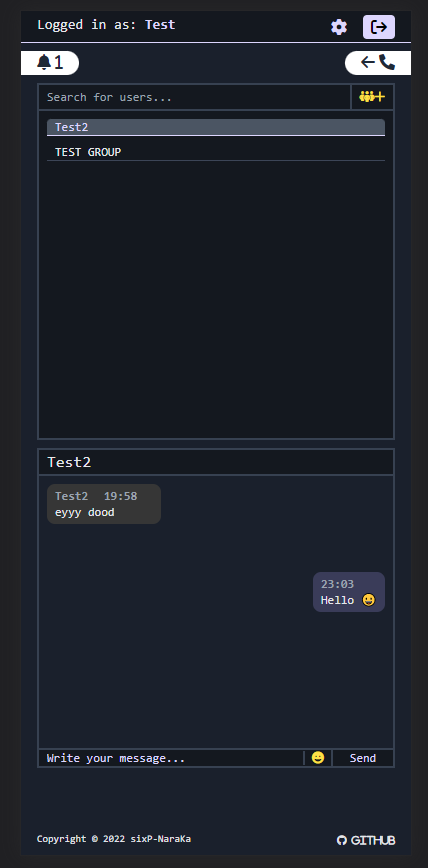
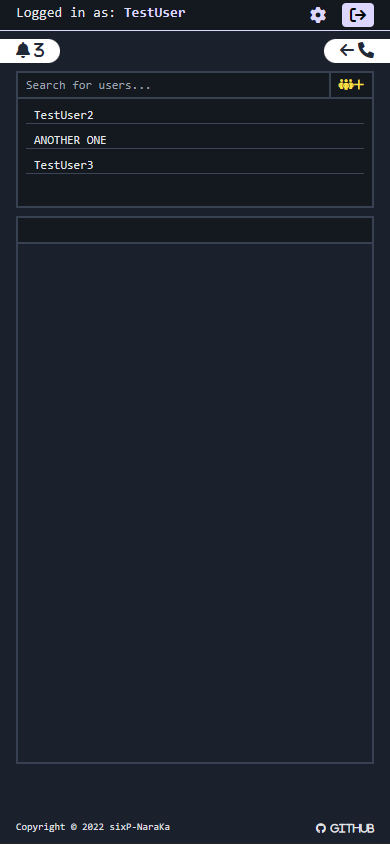
Embed YouTube Videos if URL is valid and user has (new) setting enabled to allow this embedding. Resize chat-tabs and chat window to give more space for the chat contents on lower screen sizes.

Changed region(s): [[0.0, 0.0, 1.0, 0.9242], [0.0308, 0.955, 0.4615, 0.9858], [0.7692, 0.955, 0.9538, 0.9858]]

diff --git a/frontend/src/app/settings-menu/settings-menu.component.html b/frontend/src/app/settings-menu/settings-menu.component.html
@@ -1,6 +1,7 @@
 <div class="settings-menu-blur z-50 absolute top-0 left-0 flex items-center h-screen w-screen"
     [class.hidden]="shouldShowMenu === false" [class.flex]="shouldShowMenu === true">
-    <div class="settings-menu-window relative items-center w-[50%] min-w-fit h-64 px-4 mx-auto border-2 border-gray-700">
+    <div
+        class="settings-menu-window relative items-center w-[50%] min-w-fit h-64 px-4 mx-auto border-2 border-gray-700">
         <button type="button" class="absolute top-0 right-0 p-2 fa-solid fa-xmark" (click)="closeMenu()"></button>
         <p class="pt-8"></p>
 
@@ -19,11 +20,17 @@
                 </label>
             </div>
             <hr class="my-4 border-violet-200 w-full">
-            <div class="flex flex-row space-x-2">
-                <p>Change chat window text font-size:</p>
-                <select formControlName="fontSize" class="text-black">
-                    <option *ngFor="let fontSize of availableFontSizes" value={{fontSize.value}}>{{fontSize.text}}</option>
-                </select>
+            <div class="flex flex-col items-start">
+                <label>Change chat window text font-size:
+                    <select formControlName="fontSize" class="text-black">
+                        <option *ngFor="let fontSize of availableFontSizes" value={{fontSize.value}}>
+                            {{fontSize.text}}
+                        </option>
+                    </select>
+                </label>
+                <label>Embed YouTube Videos:
+                    <input formControlName="embedYouTubeVideos" type="checkbox" />
+                </label>
             </div>
 
             <button type="submit" class="w-32 absolute bottom-0 mb-4 rounded bg-violet-200 text-black">Apply</button>

diff --git a/frontend/src/app/settings-menu/settings-menu.component.ts b/frontend/src/app/settings-menu/settings-menu.component.ts
@@ -27,7 +27,8 @@ export class SettingsMenuComponent implements OnInit {
 
     settingsMenuFormGroup: FormGroup = new FormGroup({
         filterRadio: new FormControl(this.userSettings?.filter, Validators.required),
-        fontSize: new FormControl(this.userSettings?.font_size, Validators.required)
+        fontSize: new FormControl(this.userSettings?.font_size, Validators.required),
+        embedYouTubeVideos: new FormControl(this.userSettings?.embed_yt_videos, Validators.required),
     });
 
     availableFontSizes = [
@@ -46,7 +47,8 @@ export class SettingsMenuComponent implements OnInit {
             // for now, as a workaround, simply overwrite the existing FormGroup to the correct one
             this.settingsMenuFormGroup = new FormGroup({
                 filterRadio: new FormControl(this.userSettings.filter, Validators.required),
-                fontSize: new FormControl(this.userSettings.font_size, Validators.required)
+                fontSize: new FormControl(this.userSettings.font_size, Validators.required),
+                embedYouTubeVideos: new FormControl(this.userSettings.embed_yt_videos, Validators.required),
             });
         });
     }
@@ -69,6 +71,7 @@ export class SettingsMenuComponent implements OnInit {
         this.closeMenu();
         this.userSettings.filter = this.settingsMenuFormGroup.value.filterRadio as string;
         this.userSettings.font_size = this.settingsMenuFormGroup.value.fontSize as string;
+        this.userSettings.embed_yt_videos = this.settingsMenuFormGroup.value.embedYouTubeVideos as boolean;
         // save the new settings in the db
         this.userService.updateUserSettings(this.userSettings);
         // emit the user settings

diff --git a/frontend/src/app/chat/chat.component.ts b/frontend/src/app/chat/chat.component.ts
@@ -53,6 +53,8 @@ export class ChatComponent implements OnInit {
         }
     ]
 
+    embedYouTubeVideos: boolean | undefined = undefined;
+
     constructor(private userService: UserService, private wsService: WebsocketService, private settingsService: UserSettingsService,
         private toastrService: ToastrService) {
         this.currentUser = this.userService.currentUser;
@@ -84,8 +86,9 @@ export class ChatComponent implements OnInit {
             }
         });
 
-        this.settingsService.currentUserSettingsSubject$.subscribe(settings => {
-            this.applyFontSizeSettings(settings);
+        this.settingsService.currentUserSettingsSubject$.subscribe(stts => {
+            this.applyFontSizeSettings(stts);
+            this.embedYouTubeVideoSettings(stts);
         });
     }
 
@@ -99,6 +102,10 @@ export class ChatComponent implements OnInit {
             chatWindowElement.classList.remove("text-xs", "md:text-base", "text-sm", "text-base", "text-lg", "text-xl", "text-2xl");
             chatWindowElement.classList.add(`${usrSetts.font_size}`);
         }
+    }
+
+    embedYouTubeVideoSettings(usrSetts: settings) {
+        this.embedYouTubeVideos = usrSetts.embed_yt_videos;
     }
 
     /**

diff --git a/frontend/src/app/chat/chat.component.html b/frontend/src/app/chat/chat.component.html
@@ -14,7 +14,17 @@
                     <button class="deleteMessageButton fa-regular fa-trash-can text-red-400"></button>
                 </span>
             </span>
-            <span *ngIf="!message.isimage && !message.isfile" [innerHTML]="message.msg_content | urlify"></span>
+            <span *ngIf="!message.isimage && !message.isfile">
+                <span [innerHTML]="message.msg_content | urlify"></span>
+                <span *ngIf="embedYouTubeVideos">
+                    <span *ngFor="let url of message.msg_content | embed">
+                        <iframe class="max-h-[120px] max-w-full sm:min-h-[240px] sm:min-w-full" [src]="url"
+                            allow='accelerometer; autoplay; clipboard-write; encrypted-media; gyroscope; picture-in-picture; web-share'
+                            allowfullscreen>
+                        </iframe>
+                    </span>
+                </span>
+            </span>
             <ng-container *ngIf="message.isimage">
                 <ng-container *ngIf="(message | getimage | async | imageify | async) as srcUrl">
                     <img [src]="srcUrl" alt="Loading image..." class="max-h-80 cursor-pointer"

diff --git a/frontend/src/app/chat-page/chat-page.component.html b/frontend/src/app/chat-page/chat-page.component.html
@@ -13,13 +13,12 @@
 </div>
 
 <div class="chat flex flex-auto flex-col sm:flex-row w-full h-[85vh] min-h-[480px] sm:space-x-6 p-4 pt-4">
-    <!-- this container will have a min-height of 120px, as the parent container is 480px and the child component below 320px - (minus) paddings, etc. pp. -->
     <div
-        class="chat-tabs chat-scrollbar flex-auto min-w-[240px] overflow-y-auto text-xs md:text-base border-2 border-gray-700">
+        class="chat-tabs chat-scrollbar flex-auto min-w-[240px] min-h-[20%] sm:max-h-full overflow-y-auto text-xs md:text-base border-2 border-gray-700">
         <app-chat-tabs (loadChat)="displayChat($event)" [filterOutEmpty1on1Chats]="userSettings?.filter === 'filter'">
         </app-chat-tabs>
     </div>
-    <div class="relative flex flex-col w-full min-w-[240px] min-h-[320px] mt-2 sm:mt-0 border-2 border-gray-700">
+    <div class="relative flex flex-col w-full min-w-[240px] min-h-[80%] mt-2 sm:mt-0 border-2 border-gray-700">
         <div class="chat-content-header border-b-2 border-gray-700">
             <div id="chatHeader">
                 <div *ngIf="this.chatroom" class="flex flex-row justify-between h-full text-base">

diff --git a/frontend/src/app/pipes/urlify.pipe.ts b/frontend/src/app/pipes/urlify.pipe.ts
@@ -19,11 +19,16 @@ export class UrlifyPipe implements PipeTransform {
      * @returns 
      */
     urlify(msg: string): string {
-        return msg.replace(new RegExp(this.urlRegex), match => {
+        return this.replaceWhenMatched(msg, (match) => {
             const isImageUrl = this.isImageUrl(match);
-            return `<a href="${match}" target="_blank" rel="noreferrer noopener" class="text-blue-500">${match}</a>
+            const html = `<a href="${match}" target="_blank" rel="noreferrer noopener" class="text-blue-500">${match}</a>
             ${isImageUrl ? `<img src="${match}" alt="Loading image..." class="max-h-80">` : ""}`
+            return html;
         });
+    }
+
+    replaceWhenMatched(msg: string, callbackWhenMatched: (match: string) => string): string {
+        return msg.replace(new RegExp(this.urlRegex, "g"), match => callbackWhenMatched(match));
     }
 
     // https://stackoverflow.com/a/19395606 - slightly modified
@@ -39,5 +44,4 @@ export class UrlifyPipe implements PipeTransform {
         //check if the extension matches anything in the list.
         return imageTypes.indexOf(extension) !== -1;
     }
-
 }

diff --git a/frontend/src/app/app.module.ts b/frontend/src/app/app.module.ts
@@ -31,6 +31,7 @@ import { ScrollintoviewPipe } from './pipes/scrollintoview.pipe';
 import { InfiniteScrollModule } from 'ngx-infinite-scroll';
 import { DragAndDropFileDirective } from './directives/drag-and-drop-file.directive';
 import { ToastrModule, ToastNoAnimationModule } from 'ngx-toastr';
+import { EmbedPipe } from './pipes/embed.pipe';
 
 const socketconfig: SocketIoConfig = { url: config.BACKEND_HOST, options: { autoConnect: false } }
 
@@ -56,6 +57,7 @@ const socketconfig: SocketIoConfig = { url: config.BACKEND_HOST, options: { auto
         ImageifyPipe,
         ScrollintoviewPipe,
         DragAndDropFileDirective,
+        EmbedPipe,
     ],
     imports: [
         BrowserModule,
@@ -78,7 +80,8 @@ const socketconfig: SocketIoConfig = { url: config.BACKEND_HOST, options: { auto
     providers: [
         jwtInterceptorProvider,
         WebsocketService,
-        { provide: ErrorHandler, useClass: UnauthorizedErroHandler }
+        { provide: ErrorHandler, useClass: UnauthorizedErroHandler },
+        UrlifyPipe,
     ],
     bootstrap: [AppComponent]
 })

diff --git a/frontend/src/app/pipes/embed.pipe.ts b/frontend/src/app/pipes/embed.pipe.ts
@@ -1,0 +1,31 @@
+import { Pipe, PipeTransform } from '@angular/core';
+import { DomSanitizer, SafeResourceUrl } from '@angular/platform-browser';
+import { UrlifyPipe } from './urlify.pipe';
+
+@Pipe({
+    name: 'embed'
+})
+export class EmbedPipe implements PipeTransform {
+
+    constructor(private urlifyPipe: UrlifyPipe, private domSanitizer: DomSanitizer) { }
+
+    transform(value: string, ...args: unknown[]): Array<SafeResourceUrl> {
+        return this.embed(value);
+    }
+
+    private embed(msg: string): Array<SafeResourceUrl> {
+        const matches = Array.from(msg.matchAll(new RegExp(this.urlifyPipe.urlRegex, "g")));
+        if (matches === null) return [];
+
+        const urls = new Array<SafeResourceUrl>();
+        for (const [match] of matches) {
+            if (match.includes("youtube.com/watch?v=")) {
+                const embedUrl = this.domSanitizer.bypassSecurityTrustResourceUrl(match.replace("youtube.com/watch?v=", "youtube.com/embed/"));
+                urls.push(embedUrl);
+            }
+        }
+        return urls;
+    }
+
+
+}

diff --git a/frontend/src/index.html b/frontend/src/index.html
@@ -11,11 +11,12 @@
         integrity="sha512-KfkfwYDsLkIlwQp6LFnl8zNdLGxu9YAA1QvwINks4PhcElQSvqcyVLLD9aMhXd13uQjoXtEKNosOWaZqXgel0g=="
         crossorigin="anonymous" referrerpolicy="no-referrer" />
 </head>
-    <body class="font-mono text-gray-200 flex flex-col flex-auto h-full">
+
+<body class="font-mono text-gray-200 flex flex-col flex-auto h-full">
     <app-root class="flex-grow"></app-root>
 
     <footer class="w-full px-4 pb-2 font-mono text-gray-200 flex justify-between text-[10px]">
-        <p>Copyright &copy; 2022 sixP-NaraKa</p>
+        <p>Copyright &copy; 2022 - present sixP-NaraKa</p>
         <button type="button" class="fa-brands fa-github ml-auto">
             <a title="GitHub Source" href="https://github.com/sixP-NaraKa/chatty" class="pl-0.5">GitHub</a>
         </button>

diff --git a/frontend/src/app/pipes/imageify.pipe.ts b/frontend/src/app/pipes/imageify.pipe.ts
@@ -6,14 +6,14 @@ import { DomSanitizer } from '@angular/platform-browser';
 })
 export class ImageifyPipe implements PipeTransform {
 
-    constructor(private domSanitizer: DomSanitizer) {}
+    constructor(private domSanitizer: DomSanitizer) { }
 
     async transform(value: Blob | null, ...args: unknown[]): Promise<any> {
         if (value === null) return;
-        return await this.imagefiy(value);
+        return await this.imageify(value);
     }
 
-    private async imagefiy(image: Blob): Promise<any> {
+    private async imageify(image: Blob): Promise<any> {
         // const img: Blob = image ?? new File([], "image.png");
         const url: any = await new Promise(resolve => {
             const reader = new FileReader();

diff --git a/backend/src/users/users.service.ts b/backend/src/users/users.service.ts
@@ -63,7 +63,8 @@ export class UsersService {
             },
             data: {
                 filter: body.filter,
-                font_size: body.font_size
+                font_size: body.font_size,
+                embed_yt_videos: body.embed_yt_videos
             }
         })
     }

diff --git a/frontend/src/app/pipes/embed.pipe.spec.ts b/frontend/src/app/pipes/embed.pipe.spec.ts
@@ -1,0 +1,8 @@
+import { EmbedPipe } from './embed.pipe';
+
+describe('EmbedPipe', () => {
+  it('create an instance', () => {
+    const pipe = new EmbedPipe();
+    expect(pipe).toBeTruthy();
+  });
+});
